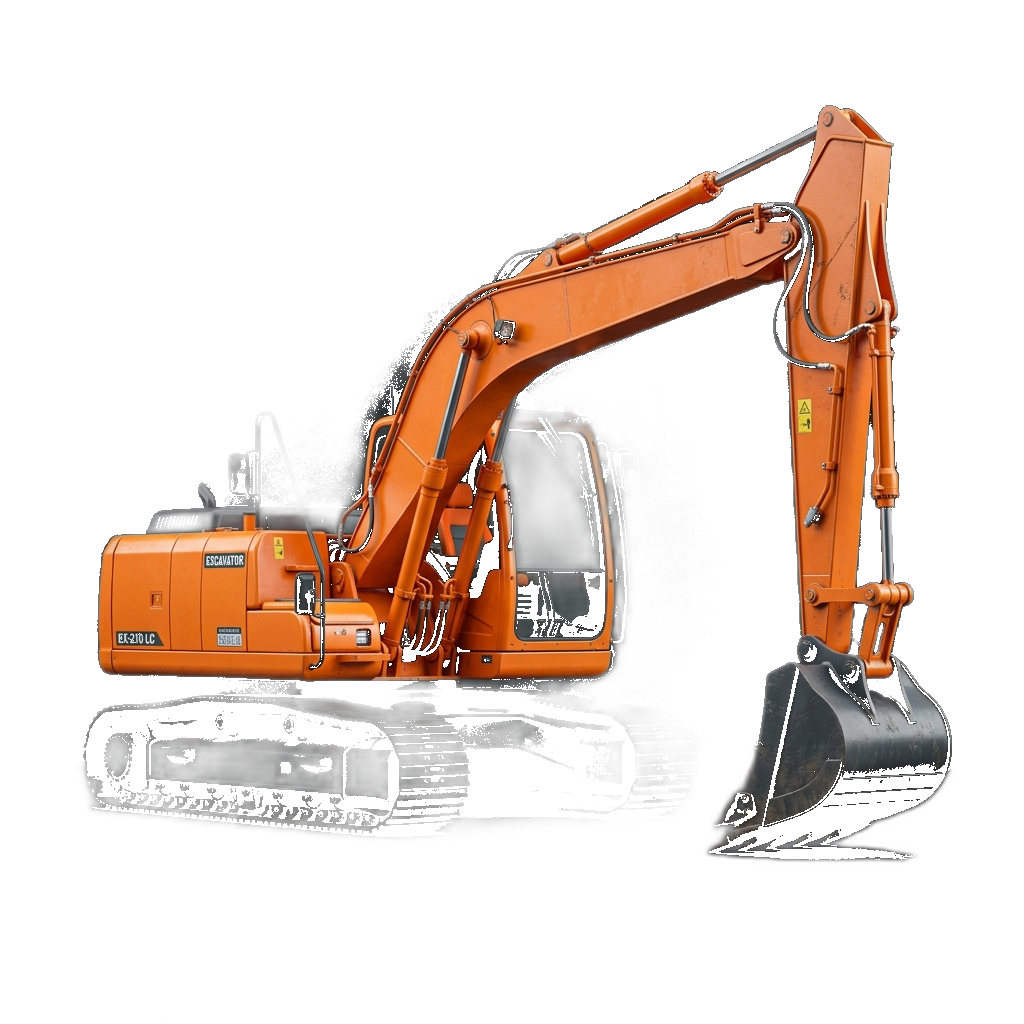
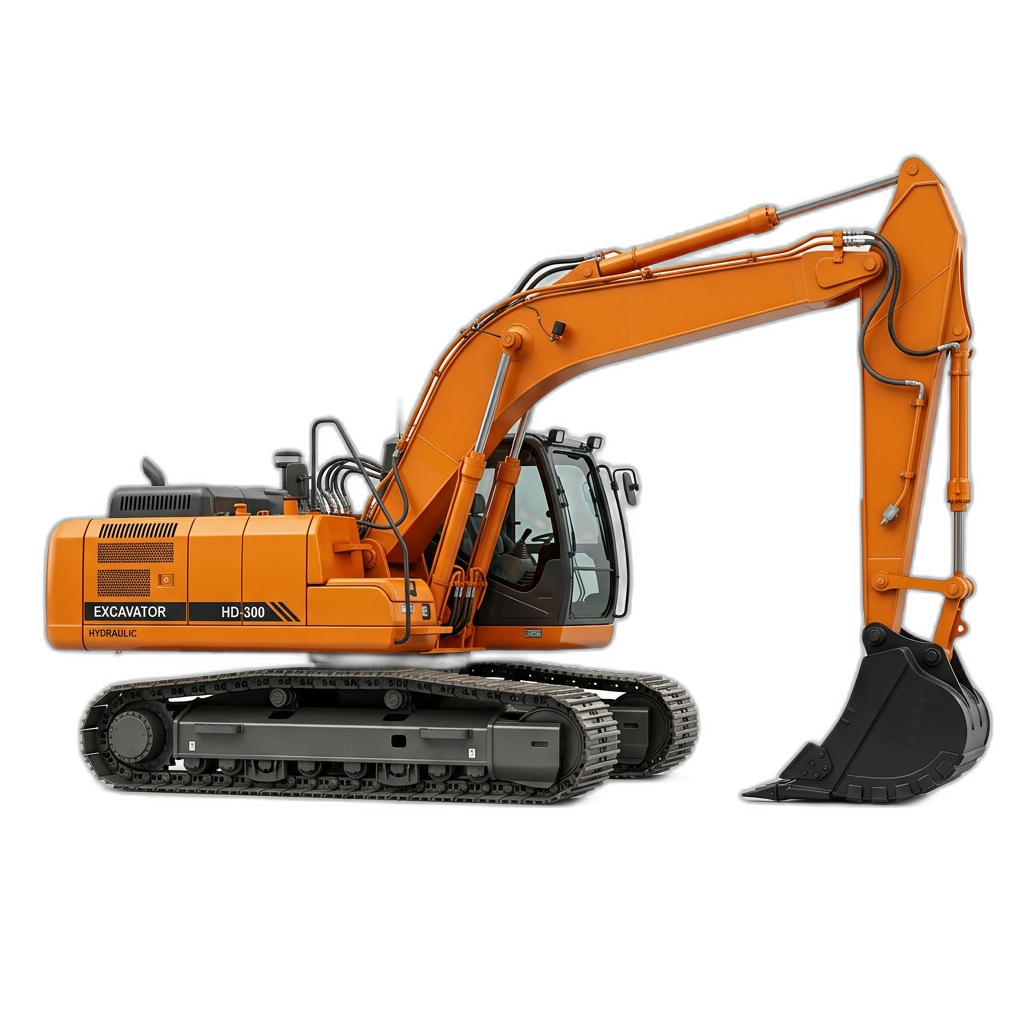
img sync

diff --git a/index.html b/index.html
@@ -638,7 +638,7 @@
 
             const observerOptions = {
                 root: null,
-                rootMargin: '-30% 0px -30% 0px',
+                rootMargin: '-49% 0px -49% 0px',
                 threshold: 0
             };
 